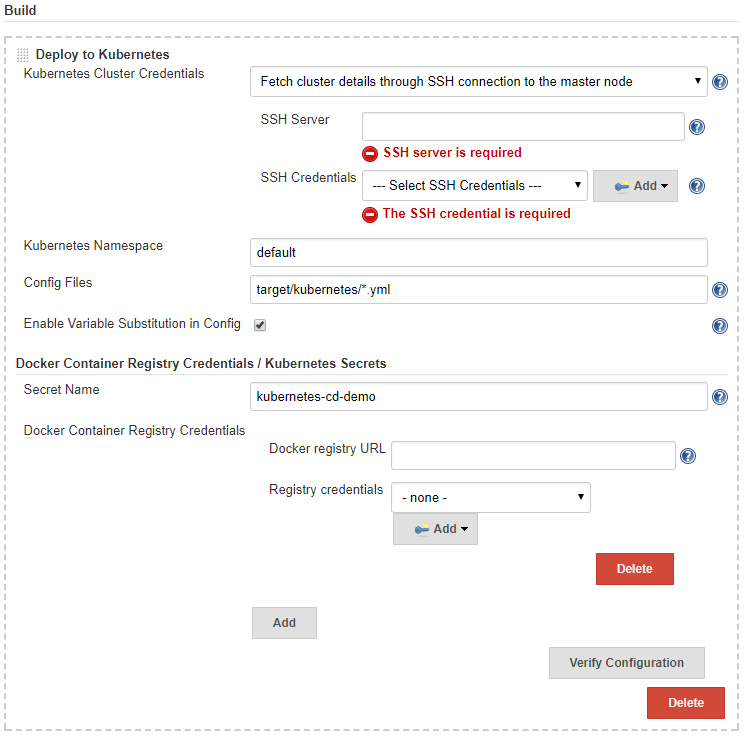
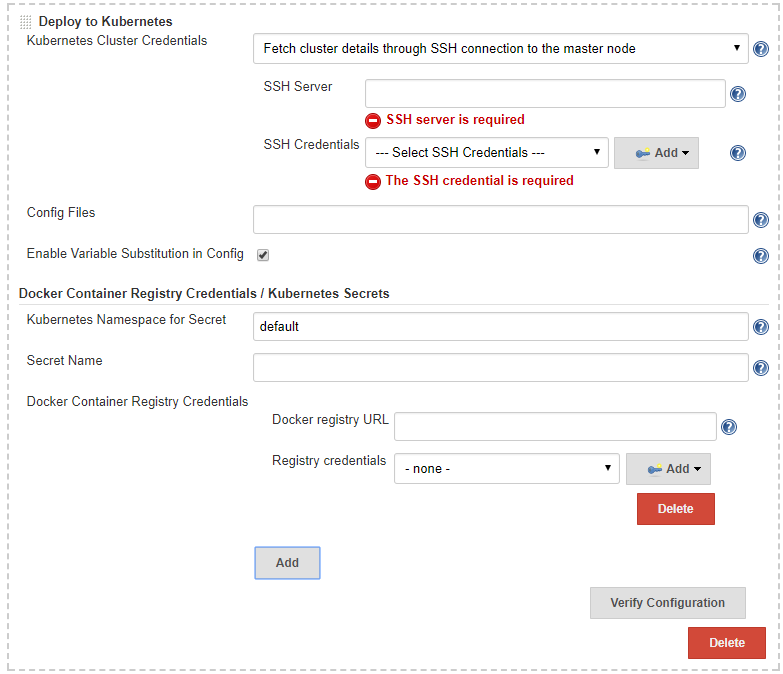
Update documentation

diff --git a/README.md b/README.md
@@ -28,7 +28,6 @@ It provides the following features:
    * Fetch cluster details through SSH connection to the master node. Fill in the SSH credentials to the master node,
        and the plugin will pull the **kubeconfig** from `~/.kube/config` from the master node.
    * Fill credentials details directly. Manually copy / paste the contents from existing **kubeconfig**.
-1. Fill in the namespace in which you want to deploy the resources. By default this will be `default`.
 1. Fill in the "Config Files" with the configuration file paths. Split multiple entries with comma (`,`). 
    [Ant glob syntax](https://ant.apache.org/manual/dirtasks.html#patterns) is supported for path patterns.
 1. By checking "Enable Variable Substitution in Config", the variables (in the form of `$VARIABLE` or `${VARIABLE})
@@ -38,6 +37,8 @@ It provides the following features:
 1. If your Kubernetes resources being deployed need to pull images from private registry, you can click the
    "Docker Container Registry Credentials / Kubernetes Secrets..." button and configure all the required registry
    credentials.
+   * Kubernetes Namespace for Secret: the namespace in which the secrets will be created with the credentials 
+      configured below. By default this will be `default`.
    * Secret Name: the name of the secret that will be generated or updated if exists. If left blank, a unique name will
       be generated. The name will be exposed as environment variable `KUBERNETES_SECRET_NAME` and you may reference it
       in your configuration with the "Enable Variable Substitution in Config" option turned on.
@@ -100,10 +101,10 @@ kubernetesDeploy(
         credentialsType: 'KubeConfig',
         kubeConfig: [path: '<path-to-the-kubeconfig-in-the-workspace>'],
 
-        namespace: '<kubernetes-namespace>',
         configs: '<ant-glob-pattern-for-resource-config-paths>',
         enableConfigSubstitution: false,
-
+        
+        secretNamespace: '<secret-namespace>',
         secretName: '<secret-name>',
         dockerCredentials: [
                 [credentialsId: '<credentials-id-for-docker-hub>'],
@@ -155,13 +156,11 @@ The parameters can be divided into the following groups, which you may configure
    ```groovy
    kubernetesDeploy(
            ...
-           namespace: '<kubernetes-namespace>',
            configs: '<ant-glob-pattern-for-resource-config-paths>',
            enableConfigSubstitution: true,
            ...
    )
    ```
-   * `namespace` defaults to `default` if omitted
    * `enableConfigSubstitution` defaults to `true`
    
 * Docker Container Registry Credentials / Kubernetes Secrets
@@ -169,6 +168,7 @@ The parameters can be divided into the following groups, which you may configure
    ```groovy
    kubernetesDeploy(
            ...
+           secretNamespace: '<secret-namespace>',
            secretName: '<secret-name>',
            dockerCredentials: [
                [credentialsId: '<credentials-id-for-docker-hub>'],
@@ -176,6 +176,6 @@ The parameters can be divided into the following groups, which you may configure
            ],
    )
    ```
-
+   * `secretNamespace` will be `default` if omitted.
    * A unique `secretName` will be generated if omitted, and you need to reference it with variable 
       `$KUBERNETES_SECRET_NAME` in your resource configurations.
